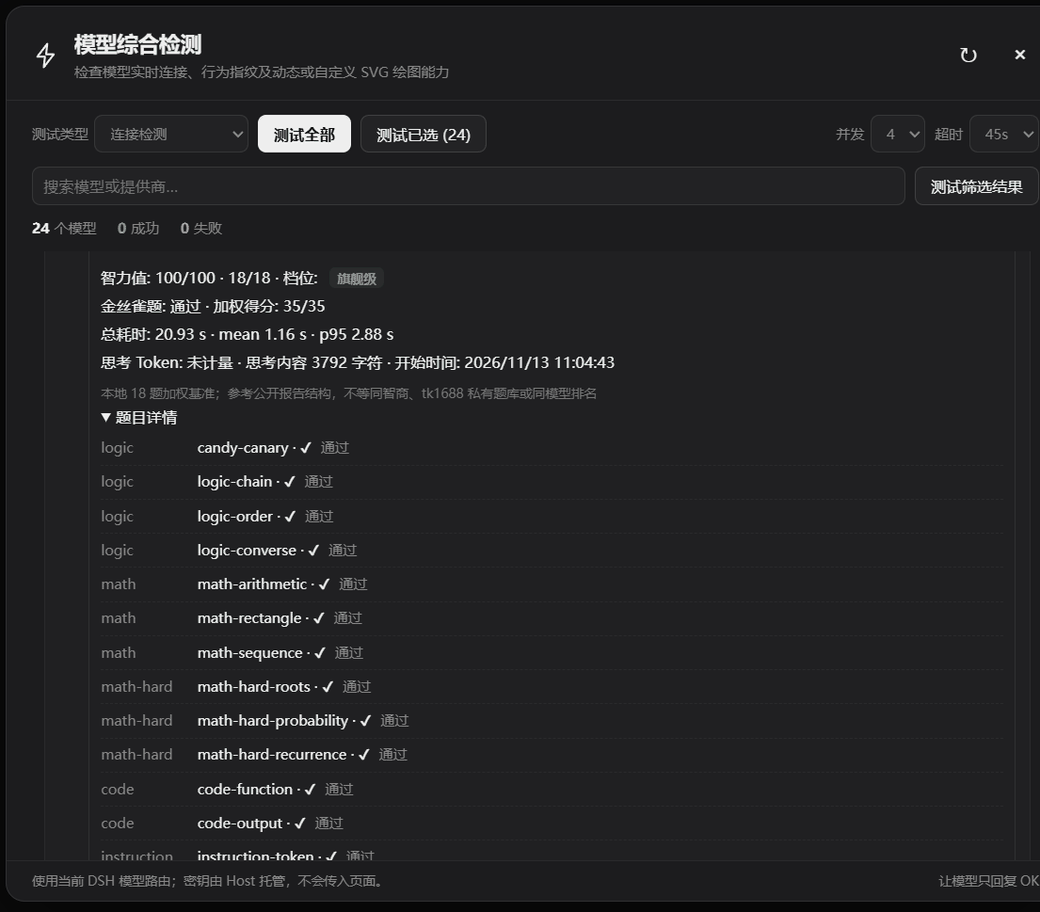
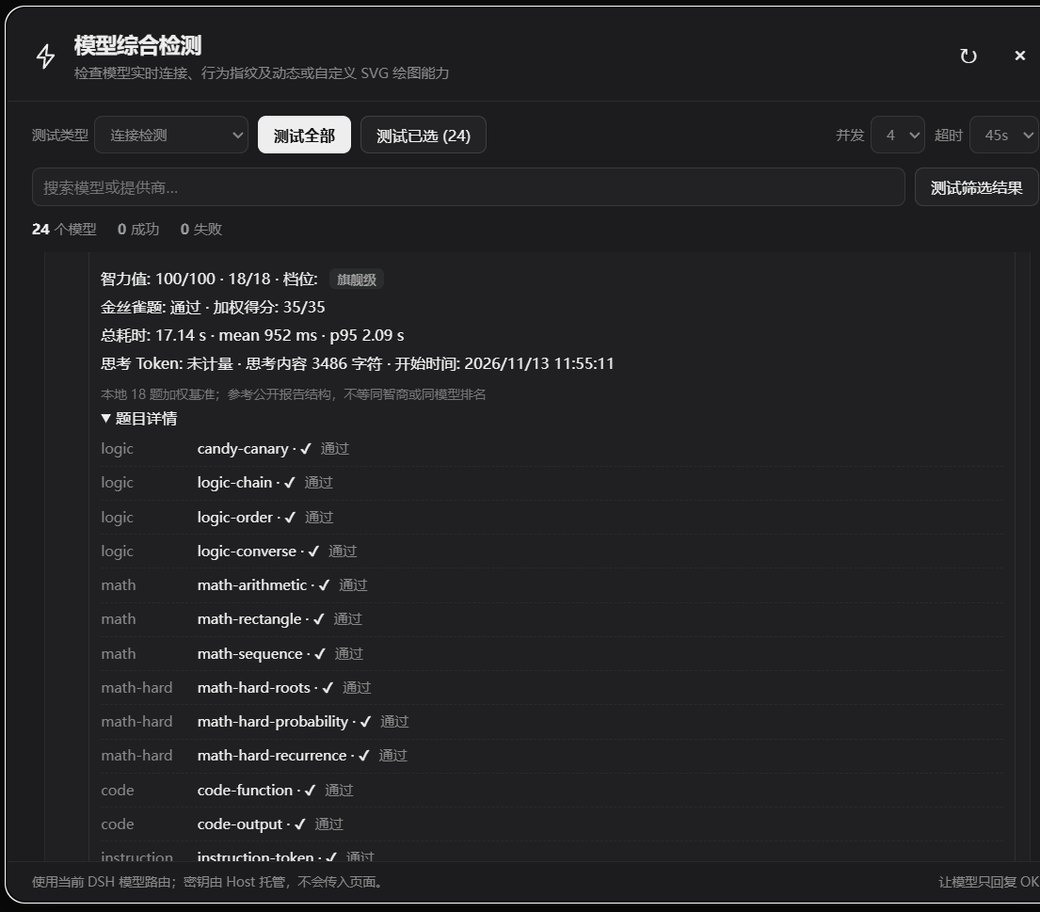
fix: drop the third-party site reference from the report note
The intelligence report carried a hint naming the site whose public report
shape the fields follow. That reference is presenter text only — it never
feeds scoring — but it does not belong in a published plugin.

- client.js: intelligenceHint (zh/en) no longer names the site
- intelligence.js: report note and the source comment use neutral wording
- locale/{zh,en}.json: kept in sync with the inline dictionaries
- README: field names described as a common public report shape
- assets/model-probe-iq.png: regenerated from the current UI

Scoring, tiers, the canary item and the 18 probes are untouched; 28 tests pass.

diff --git a/client.js b/client.js
@@ -5,8 +5,8 @@ window.__ModuleLoader__.load({
     const ReactDOM = require('react-dom');
     const zh = {"meta":{"title":"模型综合检测","description":"测试模型连接、行为指纹、耗时、Token 用量和 SVG 绘图能力。"},"title":"模型综合检测","subtitle":"检查所有已配置模型的实时连接状态","testAll":"测试全部","testSelected":"测试已选","testOne":"测试此模型","testFiltered":"测试筛选结果","stop":"停止","refresh":"刷新模型列表","close":"关闭","concurrency":"并发","timeout":"超时","search":"搜索模型或提供商…","models":"个模型","succeeded":"成功","failedCount":"失败","testing":"测试中","success":"成功","failed":"失败","untested":"未测试","firstToken":"首个回复","total":"总耗时","reply":"模型回复","reasoning":"思考","emptyReply":"无文本回复","details":"技术详情","technicalDetails":"技术详情","copyRequest":"复制请求","model":"测试模型","provider":"提供商","prompt":"提示词","promptHint":"让模型只回复 OK","startedAt":"开始时间","transport":"传输","stream":"流式","loading":"正在读取模型列表…","empty":"暂未发现可测试模型。请先在模型设置中添加提供商和模型。","noMatch":"没有符合搜索条件的模型。","loadError":"读取模型列表失败","catalogError":"目录异常","select":"选择","footnote":"使用当前 DSH 模型路由；密钥由 Host 托管，不会传入页面。"};
     const en = {"meta":{"title":"Model Probe","description":"Test model connectivity, behavioral fingerprints, latency, token usage, and SVG generation."},"title":"Model Probe","subtitle":"Check live connectivity for every configured model","testAll":"Test all","testSelected":"Test selected","testOne":"Test this model","testFiltered":"Test filtered","stop":"Stop","refresh":"Refresh model list","close":"Close","concurrency":"Concurrency","timeout":"Timeout","search":"Search models or providers…","models":"models","succeeded":"passed","failedCount":"failed","testing":"Testing","success":"Passed","failed":"Failed","untested":"Not tested","firstToken":"First response","total":"Total","reply":"Reply","reasoning":"Reasoning","emptyReply":"No text reply","details":"Technical details","technicalDetails":"Technical details","copyRequest":"Copy request","model":"Model","provider":"Provider","prompt":"Prompt","promptHint":"Reply with OK only","startedAt":"Started","transport":"Transport","stream":"Streaming","loading":"Loading model catalog…","empty":"No testable models found. Add a provider and models in Model Settings.","noMatch":"No models match your search.","loadError":"Failed to load model catalog","catalogError":"Catalog error","select":"Select","footnote":"Uses current DSH model routes. Keys stay on the Host and never reach this page."};
-    Object.assign(zh, { subtitle: '检查模型实时连接、行为指纹及动态或自定义 SVG 绘图能力', testType: '测试类型', connectionTest: '连接检测', svgTest: 'SVG 动画检测', customSvgTest: '自定义 SVG 检测', customSvgPrompt: '自定义 SVG 提示词', customSvgPlaceholder: '只需描述画面，例如“三英战吕布”；会自动要求模型仅输出 SVG…', customSvgHint: '可直接填写简短主题；插件会自动补充完整的 SVG 输出要求。', customPromptRequired: '请先填写自定义 SVG 提示词', staticPreview: 'SVG 预览', svgReady: 'SVG 检测完成 · 预览可用', animations: '处动画', svgSource: '清洗后的 SVG 源码（纯文本）', svgNotice: '保留原生 SVG 动画；脚本、外部资源和事件已移除。', svgPromptHint: '生成鹈鹕骑自行车的循环动画 SVG', fingerprint: '模型指纹', fingerprintTest: '检测此模型的行为指纹', fingerprintRunning: '正在执行行为探针', fingerprintStop: '停止指纹检测', fingerprintScore: '行为分', fingerprintConfidence: '样本完整度', reportedModel: '模型自述', fingerprintDigest: '指纹摘要', behaviorFeatures: '行为特征', fingerprintProbes: '探针详情', fingerprintPartial: '部分探针失败，当前指纹基于已完成样本', fingerprintHint: '7 项本地行为探针；自述型号仅供参照，不作为判定依据', quickMode: '快速模式', quickModeHint: '默认限制在 3000 字节和 30 个元素以内；关闭后放宽至 12000 字节和 100 个元素。', elements: '个元素', intelligence: '智力检测', intelligenceTest: '检测此模型的智力值', intelligenceRunning: '正在执行本地智力基准', intelligenceStop: '停止智力检测', intelligenceScore: '智力值', intelligenceTier: '档位', intelligenceCanary: '金丝雀题', intelligenceWeighted: '加权得分', intelligenceProbes: '题目详情', intelligencePartial: '部分题目失败，分数仅基于已完成题目', intelligenceHint: '本地 18 题加权基准；参考公开报告结构，不等同智商、tk1688 私有题库或同模型排名', tierFlagship: '旗舰级', tierMid: '中端', tierSmall: '轻量', tierAbnormal: '异常', tierInsufficient: '样本不足', passed: '通过', notPassed: '未通过', reasoningTokens: '思考 Token', reasoningNotReported: '未计量', reasoningChars: '思考内容', reasoningCharsUnit: '字符' });
-    Object.assign(en, { subtitle: 'Check live connectivity, behavioral fingerprints, and animated or custom SVG generation', testType: 'Test type', connectionTest: 'Connectivity', svgTest: 'Animated SVG probe', customSvgTest: 'Custom SVG probe', customSvgPrompt: 'Custom SVG prompt', customSvgPlaceholder: 'Describe the picture, even briefly; SVG-only output instructions are added automatically…', customSvgHint: 'A short subject is enough. The plugin automatically adds complete SVG output instructions.', customPromptRequired: 'Enter a custom SVG prompt first', staticPreview: 'SVG preview', svgReady: 'SVG probe completed · preview ready', animations: 'animations', svgSource: 'Sanitized SVG source (plain text)', svgNotice: 'Native SVG animation is preserved; scripts, external resources, and events are removed.', svgPromptHint: 'Generate a looping animated SVG of a pelican riding a bicycle', fingerprint: 'Model fingerprint', fingerprintTest: 'Test this model’s behavioral fingerprint', fingerprintRunning: 'Running behavioral probes', fingerprintStop: 'Stop fingerprint probe', fingerprintScore: 'Behavior score', fingerprintConfidence: 'Sample coverage', reportedModel: 'Self-reported model', fingerprintDigest: 'Fingerprint digest', behaviorFeatures: 'Behavior features', fingerprintProbes: 'Probe details', fingerprintPartial: 'Some probes failed; this fingerprint uses completed samples only', fingerprintHint: '7 local behavioral probes; self-reported identity is reference only, not a verdict', quickMode: 'Quick mode', quickModeHint: 'Limits output to 3,000 bytes and 30 elements by default; disable to allow 12,000 bytes and 100 elements.', elements: 'elements', intelligence: 'Intelligence test', intelligenceTest: 'Run the local intelligence battery', intelligenceRunning: 'Running the local intelligence battery', intelligenceStop: 'Stop intelligence test', intelligenceScore: 'IQ score', intelligenceTier: 'Tier', intelligenceCanary: 'Canary item', intelligenceWeighted: 'Weighted score', intelligenceProbes: 'Question details', intelligencePartial: 'Some questions failed; the score uses completed items only', intelligenceHint: 'Local 18-item weighted benchmark; mirrors a public report shape, not an IQ test, tk1688’s private bank, or a cross-model ranking', tierFlagship: 'Flagship', tierMid: 'Mid-range', tierSmall: 'Lightweight', tierAbnormal: 'Abnormal', tierInsufficient: 'Insufficient sample', passed: 'passed', notPassed: 'failed', reasoningTokens: 'Reasoning tokens', reasoningNotReported: 'not reported', reasoningChars: 'Reasoning text', reasoningCharsUnit: 'chars' });
+    Object.assign(zh, { subtitle: '检查模型实时连接、行为指纹及动态或自定义 SVG 绘图能力', testType: '测试类型', connectionTest: '连接检测', svgTest: 'SVG 动画检测', customSvgTest: '自定义 SVG 检测', customSvgPrompt: '自定义 SVG 提示词', customSvgPlaceholder: '只需描述画面，例如“三英战吕布”；会自动要求模型仅输出 SVG…', customSvgHint: '可直接填写简短主题；插件会自动补充完整的 SVG 输出要求。', customPromptRequired: '请先填写自定义 SVG 提示词', staticPreview: 'SVG 预览', svgReady: 'SVG 检测完成 · 预览可用', animations: '处动画', svgSource: '清洗后的 SVG 源码（纯文本）', svgNotice: '保留原生 SVG 动画；脚本、外部资源和事件已移除。', svgPromptHint: '生成鹈鹕骑自行车的循环动画 SVG', fingerprint: '模型指纹', fingerprintTest: '检测此模型的行为指纹', fingerprintRunning: '正在执行行为探针', fingerprintStop: '停止指纹检测', fingerprintScore: '行为分', fingerprintConfidence: '样本完整度', reportedModel: '模型自述', fingerprintDigest: '指纹摘要', behaviorFeatures: '行为特征', fingerprintProbes: '探针详情', fingerprintPartial: '部分探针失败，当前指纹基于已完成样本', fingerprintHint: '7 项本地行为探针；自述型号仅供参照，不作为判定依据', quickMode: '快速模式', quickModeHint: '默认限制在 3000 字节和 30 个元素以内；关闭后放宽至 12000 字节和 100 个元素。', elements: '个元素', intelligence: '智力检测', intelligenceTest: '检测此模型的智力值', intelligenceRunning: '正在执行本地智力基准', intelligenceStop: '停止智力检测', intelligenceScore: '智力值', intelligenceTier: '档位', intelligenceCanary: '金丝雀题', intelligenceWeighted: '加权得分', intelligenceProbes: '题目详情', intelligencePartial: '部分题目失败，分数仅基于已完成题目', intelligenceHint: '本地 18 题加权基准；参考公开报告结构，不等同智商或同模型排名', tierFlagship: '旗舰级', tierMid: '中端', tierSmall: '轻量', tierAbnormal: '异常', tierInsufficient: '样本不足', passed: '通过', notPassed: '未通过', reasoningTokens: '思考 Token', reasoningNotReported: '未计量', reasoningChars: '思考内容', reasoningCharsUnit: '字符' });
+    Object.assign(en, { subtitle: 'Check live connectivity, behavioral fingerprints, and animated or custom SVG generation', testType: 'Test type', connectionTest: 'Connectivity', svgTest: 'Animated SVG probe', customSvgTest: 'Custom SVG probe', customSvgPrompt: 'Custom SVG prompt', customSvgPlaceholder: 'Describe the picture, even briefly; SVG-only output instructions are added automatically…', customSvgHint: 'A short subject is enough. The plugin automatically adds complete SVG output instructions.', customPromptRequired: 'Enter a custom SVG prompt first', staticPreview: 'SVG preview', svgReady: 'SVG probe completed · preview ready', animations: 'animations', svgSource: 'Sanitized SVG source (plain text)', svgNotice: 'Native SVG animation is preserved; scripts, external resources, and events are removed.', svgPromptHint: 'Generate a looping animated SVG of a pelican riding a bicycle', fingerprint: 'Model fingerprint', fingerprintTest: 'Test this model’s behavioral fingerprint', fingerprintRunning: 'Running behavioral probes', fingerprintStop: 'Stop fingerprint probe', fingerprintScore: 'Behavior score', fingerprintConfidence: 'Sample coverage', reportedModel: 'Self-reported model', fingerprintDigest: 'Fingerprint digest', behaviorFeatures: 'Behavior features', fingerprintProbes: 'Probe details', fingerprintPartial: 'Some probes failed; this fingerprint uses completed samples only', fingerprintHint: '7 local behavioral probes; self-reported identity is reference only, not a verdict', quickMode: 'Quick mode', quickModeHint: 'Limits output to 3,000 bytes and 30 elements by default; disable to allow 12,000 bytes and 100 elements.', elements: 'elements', intelligence: 'Intelligence test', intelligenceTest: 'Run the local intelligence battery', intelligenceRunning: 'Running the local intelligence battery', intelligenceStop: 'Stop intelligence test', intelligenceScore: 'IQ score', intelligenceTier: 'Tier', intelligenceCanary: 'Canary item', intelligenceWeighted: 'Weighted score', intelligenceProbes: 'Question details', intelligencePartial: 'Some questions failed; the score uses completed items only', intelligenceHint: 'Local 18-item weighted benchmark; mirrors a public report shape, not an IQ test or a cross-model ranking', tierFlagship: 'Flagship', tierMid: 'Mid-range', tierSmall: 'Lightweight', tierAbnormal: 'Abnormal', tierInsufficient: 'Insufficient sample', passed: 'passed', notPassed: 'failed', reasoningTokens: 'Reasoning tokens', reasoningNotReported: 'not reported', reasoningChars: 'Reasoning text', reasoningCharsUnit: 'chars' });
 const NS = 'dsh-model-probe';
 const API = '/api/dsh-model-probe';
 const keyOf = (provider, model) => `${provider}\u0000${model}`;

diff --git a/intelligence.js b/intelligence.js
@@ -2,8 +2,9 @@ import { performance } from 'node:perf_hooks';
 
 const COMPLETED = new Set(['stop', 'tool-calls', 'max-tokens']);
 
-// A small, deterministic local benchmark inspired by the public report shape of
-// tk1688. It is not a copy of their private question bank or a population IQ test.
+// A small, deterministic local benchmark. It reuses the field naming common to
+// public probe reports, but ships its own questions and is not a population IQ
+// test or a cross-model ranking.
 export const INTELLIGENCE_PROBES = [
   { id: 'candy-canary', dim: 'logic', weight: 1, maxTokens: 256, prompt: '小明有 3 颗糖，吃掉 1 颗后又放入 2 颗。现在有几颗糖？只输出数字。', expected: '4' },
   { id: 'logic-chain', dim: 'logic', weight: 2, maxTokens: 384, prompt: '所有甲都是乙，所有乙都是丙。已知甲存在，能否确定甲是丙？只输出“是”或“否”。', expected: '是' },
@@ -171,7 +172,7 @@ function makeDetail(probes, items, elapsedMs, startedAt, provider, model, aborte
     reasoning_tokens: totalTokens, reasoning_chars: totalReasoningChars, completed, partial: completed < probes.length, passed,
     protocol: 'dsh.llm.stream', latency_ms: elapsedMs, latencyMs,
     summary: `智力值 ${score}/100 · ${correct}/${probes.length} 题 · 加权 ${weightedGot}/${weightedMax}`,
-    note: '本地18题加权基准；参考公开报告结构，不等同智商、tk1688私有题库或同模型排名。',
+    note: '本地18题加权基准；参考公开报告结构，不等同智商或同模型排名。',
     startedAt, provider, model, aborted,
   };
 }

diff --git a/README.md b/README.md
@@ -25,7 +25,7 @@
 - 自定义 SVG 默认启用「快速模式」，提示词和结果校验均限制在 3000 字节、30 个元素以内；关闭后恢复 12000 字节、100 个元素的普通模式。
 - 每个模型都有独立的「◎ 指纹」按钮：串行执行身份、精确指令、推理、JSON、噪声、代码和中文共 7 项行为探针，输出行为分、样本完整度、延迟统计、探针证据和 SHA-256 行为摘要。
 - 指纹检测参考多探针行为分析思路；模型自述仅作参照。没有本地参考指纹库时不生成虚构的 Top-5 型号概率。
-- 每个模型都有独立的「IQ」按钮：串行执行 18 道本地加权基准题（逻辑 4、算术 4、难题 3、代码 2、指令遵循 3、常识 1、陷阱 2），金丝雀题失败即判为异常；输出 0–100 智力值、旗舰/中端/轻量档位、加权得分、逐题证据和思考 Token。参考 tk1688 公开报告字段形状（tier / score / weighted_got / weighted_max / canary / percentile / peer_median），不复制其私有题库，也不生成虚构的同模型排名。
+- 每个模型都有独立的「IQ」按钮：串行执行 18 道本地加权基准题（逻辑 4、算术 4、难题 3、代码 2、指令遵循 3、常识 1、陷阱 2），金丝雀题失败即判为异常；输出 0–100 智力值、旗舰/中端/轻量档位、加权得分、逐题证据和思考 Token。报告字段沿用公开检测报告的常见形态（tier / score / weighted_got / weighted_max / canary / percentile / peer_median），但不含私有题库，也不生成虚构的同模型排名。
 - 智力检测可随时停止；总超时默认 10 分钟、单题 45 秒，失败题目标记为跳过，分数只按已完成题目计算。
 - 提供商不返回 `reasoningTokens` 时，报告改为显示思考内容的字符数（`reasoning_chars`），不把有思考但未计量写成 0。
 - SVG 结果支持动画预览、动画数量、清洗后的源码查看和请求详情；保留原生 SMIL 动画，脚本、外部资源和事件会被移除，清洗后最大 32 KiB。
